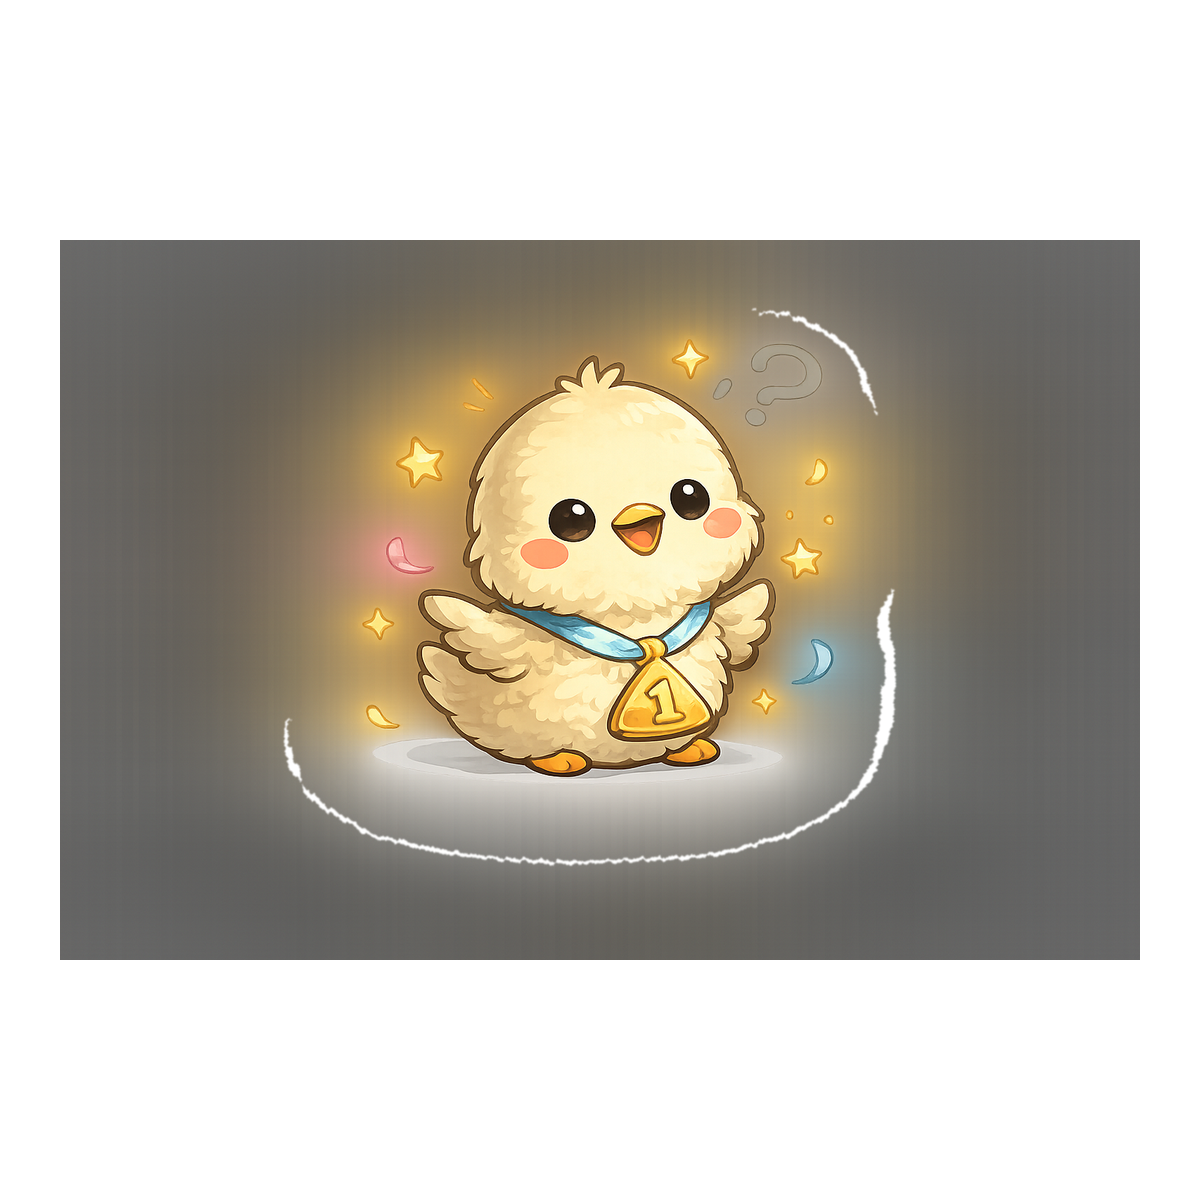
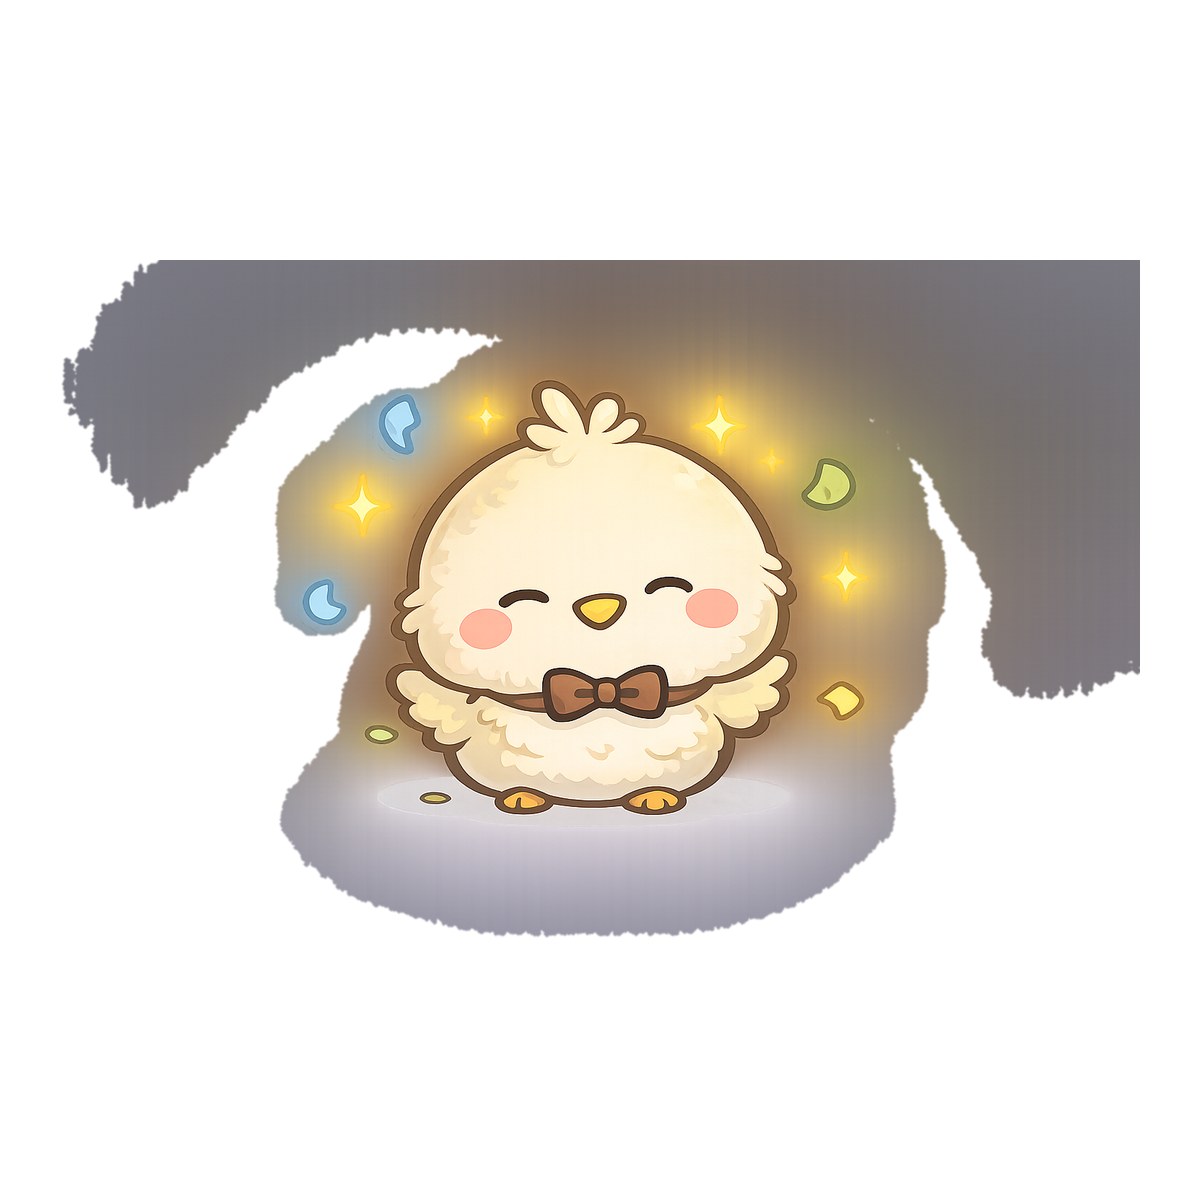
share: лейаут с Caveat-именем под картинкой + голубь→королёк + фикс async в галерее

diff --git a/challenge/share-utils.js b/challenge/share-utils.js
@@ -21,27 +21,36 @@ window.ShareUtils = (function(){
   }
 
   /* ====== Персональные птицы для share-картинок ======
-     На каждый уровень — массив объектов {file, title, phrase}.
+     На каждый уровень — массив объектов {file, name, phrase}.
      Уровень («low»/«mid»/«high») вычисляется в day-файле по результату теста,
-     внутри уровня выбирается случайный персонаж. */
+     внутри уровня выбирается случайный персонаж.
+     Префикс «сегодня ты —» отрисовывается отдельно в buildShareCanvas. */
   const _CHARS = {
     low: [
-      { file: 'levels/low-zhuk.png',       title: 'Сегодня ты — Жук-невывожук',        phrase: 'Сегодня ты сделала, что смогла. Чмок тебя в нос.' },
-      { file: 'levels/low-elezhevika.png', title: 'Сегодня ты — Ележевика',             phrase: 'Еле-еле, но ягодка.' },
-      { file: 'levels/low-myata.png',      title: 'Сегодня ты — Мята, немного помята',  phrase: 'Не сломалась, а примялась.' },
+      { file: 'levels/low-zhuk.png',       name: 'Жук-невывожук',          phrase: 'Сегодня ты сделала, что смогла. Чмок тебя в нос.' },
+      { file: 'levels/low-elezhevika.png', name: 'Ележевика',              phrase: 'Еле-еле, но ягодка.' },
+      { file: 'levels/low-myata.png',      name: 'Мята, немного помята',   phrase: 'Не сломалась, а примялась.' },
     ],
     mid: [
-      { file: 'levels/mid-utka.png',    title: 'Сегодня ты — достаточно умелая утка-Незабудка', phrase: 'Летишь не идеально, но вполне уверенно.' },
-      { file: 'levels/mid-golub.png',   title: 'Сегодня ты — Голубь-стратег',           phrase: 'Иногда путаешься, но в целом находишь дорогу к хлебушку.' },
-      { file: 'levels/mid-ptenets.png', title: 'Сегодня ты — Птенец-молодец',           phrase: 'Справилась не без приключений, но справилась.' },
+      { file: 'levels/mid-utka.png',    name: 'Утка-Незабудка',  phrase: 'Летишь не идеально, но вполне уверенно.' },
+      { file: 'levels/mid-korolek.png', name: 'Королёк-нормалёк', phrase: 'Иногда путаешься, но в целом находишь дорогу к хлебушку.' },
+      { file: 'levels/mid-ptenets.png', name: 'Птенец-молодец',  phrase: 'Справилась не без приключений, но справилась.' },
     ],
     high: [
-      { file: 'levels/high-gus.png',    title: 'Сегодня ты — Гусь-всемогусь',           phrase: 'Тебе сегодня всё по плечу.' },
+      { file: 'levels/high-gus.png',   name: 'Гусь-всемогусь', phrase: 'Тебе сегодня всё по плечу.' },
       // позже добавятся:
-      // { file: 'levels/high-rock.png', title: 'Сегодня ты — Гусь-за-попу-кусь', phrase: 'Быстро, цепко, уверенно.' },
-      // { file: 'levels/high-zhar.png', title: 'Сегодня ты — Жар-птица',         phrase: 'Ты огонь, детка.' },
+      // { file: 'levels/high-rock.png', name: 'Гусь-за-попу-кусь', phrase: 'Быстро, цепко, уверенно.' },
+      // { file: 'levels/high-zhar.png', name: 'Жар-птица',         phrase: 'Ты огонь, детка.' },
     ],
   };
+
+  // Подключаем Caveat (рукописный шрифт для весёлых имён персонажей)
+  if (!document.querySelector('link[href*="Caveat"]')) {
+    const _caveatLink = document.createElement('link');
+    _caveatLink.rel = 'stylesheet';
+    _caveatLink.href = 'https://fonts.googleapis.com/css2?family=Caveat:wght@600;700&display=swap';
+    document.head.appendChild(_caveatLink);
+  }
 
   // Прелоадим все доступные PNG персонажей (URL вычисляем от share-utils.js)
   const _charImages = {};
@@ -272,8 +281,13 @@ window.ShareUtils = (function(){
   }
 
   /* Главная функция: рисует единый «бинго-постер» для дня.
-     async — потому что ждёт прелоад PNG персонажа (если level передан). */
+     async — потому что ждёт прелоад PNG персонажа (если level передан)
+     и загрузку шрифта Caveat (если ещё не приехал). */
   async function buildShareCanvas({ dayLabel, title, subtitle, stats, userName, level }){
+    // Гарантируем, что Caveat и прочие веб-шрифты успели загрузиться
+    if (document.fonts && document.fonts.ready) {
+      try { await document.fonts.ready; } catch(e){}
+    }
     const W = 1080, H = 1920;
     const canvas = document.createElement('canvas');
     canvas.width = W; canvas.height = H;
@@ -301,53 +315,58 @@ window.ShareUtils = (function(){
       await (_charReady[char.file] || Promise.resolve());
       const charImg = _charImages[char.file];
 
-      // dayLabel сверху
+      // dayLabel
       ctx.fillStyle = '#5E6B4A';
       ctx.font = '700 26px "Manrope", sans-serif';
       ctx.textAlign = 'center';
       ctx.fillText(`• ${dayLabel.toUpperCase()}`, W/2, 250);
 
-      // ТИТУЛ — над персонажем
-      drawFitText(ctx, char.title, W/2, 340, W - 100,
-        'italic 600 50px "Fraunces", "Georgia", serif', '#D9694A', 'center');
+      // "Сегодня ты —" (мелкий префикс над картинкой)
+      ctx.fillStyle = '#5A5042';
+      ctx.font = '500 28px "Manrope", sans-serif';
+      ctx.fillText('сегодня ты —', W/2, 320);
 
-      // ПЕРСОНАЖ — большой, центр
+      // ПЕРСОНАЖ
       if (charImg && charImg.naturalWidth > 0) {
         const SIZE = 360;
-        ctx.drawImage(charImg, (W - SIZE)/2, 380, SIZE, SIZE);
+        ctx.drawImage(charImg, (W - SIZE)/2, 350, SIZE, SIZE);
       }
 
-      // ФРАЗА под персонажем (с word-wrap)
+      // ИМЯ персонажа — крупным Caveat (весёлый рукописный)
+      drawFitText(ctx, char.name, W/2, 780, W - 100,
+        '700 80px "Caveat", cursive', '#D9694A', 'center');
+
+      // ФРАЗА (с word-wrap)
       ctx.font = 'italic 500 28px "Fraunces", "Georgia", serif';
       ctx.fillStyle = '#5A5042';
       ctx.textAlign = 'center';
       const phraseLines = wrap(ctx, char.phrase, W - 160);
-      let py = 790;
+      let py = 850;
       for (const line of phraseLines) {
         ctx.fillText(line, W/2, py);
         py += 36;
       }
 
-      // основной title теста (мелким, не дублирует титул)
-      drawFitText(ctx, title, W/2, 900, W - 120,
-        '600 38px "Fraunces", "Georgia", serif', '#2A2620', 'center');
+      // title теста (мелким — не дублирует имя)
+      drawFitText(ctx, title, W/2, py + 40, W - 120,
+        '600 36px "Fraunces", "Georgia", serif', '#2A2620', 'center');
 
-      // stats card — сдвинута вниз
+      // stats — переместить с учётом высоты phrase
+      const cardY = py + 100;
+      const cardH = 540;
       if (stats && stats.length > 0) {
-        const cardY = 950, cardH = 600;
         ctx.fillStyle = '#FBF7EE';
         roundRect(ctx, 80, cardY, W - 160, cardH, 40); ctx.fill();
         ctx.strokeStyle = '#E6DECE'; ctx.lineWidth = 3;
         roundRect(ctx, 80, cardY, W - 160, cardH, 40); ctx.stroke();
-
         const cellW = (W - 160) / 2;
         const cellH = cardH / 2;
         const valueMaxW = cellW - 40;
         stats.forEach((s, i) => {
           const cx = 80 + cellW * (i % 2) + cellW/2;
           const cy = cardY + cellH * Math.floor(i / 2) + cellH/2;
-          drawFitText(ctx, String(s.v ?? '—'), cx, cy + 10, valueMaxW,
-            '600 96px "Fraunces", "Georgia", serif', '#D9694A', 'center');
+          drawFitText(ctx, String(s.v ?? '—'), cx, cy + 14, valueMaxW,
+            '600 90px "Fraunces", "Georgia", serif', '#D9694A', 'center');
           const labelMaxW = cellW - 30;
           drawFitText(ctx, (s.l || '').toUpperCase(), cx, cy + 76, labelMaxW,
             '700 22px "Manrope", sans-serif', '#8C8A77', 'center');

diff --git a/share-gallery.html b/share-gallery.html
@@ -86,7 +86,7 @@
 
 </div>
 
-<script src="challenge/share-utils.js?v=1"></script>
+<script src="challenge/share-utils.js?v=7"></script>
 <script>
 /* ============================================================
    Локальные копии рендереров из daily-card.html и
@@ -295,6 +295,7 @@ const challengeShares = [
         { v: '0', l: 'фальстарты' },
       ],
       userName: 'Аня',
+      level: 'mid',
     },
     filename: 'share-day1-pvt.png',
   },
@@ -314,6 +315,7 @@ const challengeShares = [
         { v: '3', l: 'пропустила «жми»' },
       ],
       userName: 'Аня',
+      level: 'high',
     },
     filename: 'share-day2-gng.png',
   },
@@ -333,6 +335,7 @@ const challengeShares = [
         { v: '—', l: '' },
       ],
       userName: 'Аня',
+      level: 'mid',
     },
     filename: 'share-day4-nback.png',
   },
@@ -352,6 +355,7 @@ const challengeShares = [
         { v: '—', l: '' },
       ],
       userName: 'Аня',
+      level: 'mid',
     },
     filename: 'share-day5-wcst.png',
   },
@@ -371,6 +375,7 @@ const challengeShares = [
         { v: '460', l: 'RT помехи' },
       ],
       userName: 'Аня',
+      level: 'high',
     },
     filename: 'share-day6-flanker.png',
   },
@@ -455,7 +460,7 @@ function showError(card, msg){
       if (!window.ShareUtils || typeof window.ShareUtils.buildShareCanvas !== 'function'){
         throw new Error('ShareUtils не загрузился');
       }
-      const canvas = window.ShareUtils.buildShareCanvas(item.args);
+      const canvas = await window.ShareUtils.buildShareCanvas(item.args);
       attachCanvasToCard(card, canvas, item.filename);
     } catch (e){
       showError(card, e.message || String(e));

diff --git a/challenge/day1/index.html b/challenge/day1/index.html
@@ -176,7 +176,7 @@
 </main>
 
 <script src="../challenge.js?v=3"></script>
-<script src="../share-utils.js?v=6"></script>
+<script src="../share-utils.js?v=7"></script>
 <script>
 /* ============================================================
    PVT — Psychomotor Vigilance Test

diff --git a/challenge/day2/index.html b/challenge/day2/index.html
@@ -186,7 +186,7 @@
 </main>
 
 <script src="../challenge.js?v=3"></script>
-<script src="../share-utils.js?v=6"></script>
+<script src="../share-utils.js?v=7"></script>
 <script>
 /* ============================================================
    Go / No-Go — реакция на Go (зелёные) и торможение на No-Go (красные)

diff --git a/challenge/day4/index.html b/challenge/day4/index.html
@@ -190,7 +190,7 @@
 </main>
 
 <script src="../challenge.js?v=3"></script>
-<script src="../share-utils.js?v=6"></script>
+<script src="../share-utils.js?v=7"></script>
 <script>
 /* ============================================================
    N-back — рабочая память, ДВА БЛОКА

diff --git a/challenge/day5/index.html b/challenge/day5/index.html
@@ -175,7 +175,7 @@
 </main>
 
 <script src="../challenge.js?v=3"></script>
-<script src="../share-utils.js?v=6"></script>
+<script src="../share-utils.js?v=7"></script>
 <script>
 Challenge.requireRegistration();
 

diff --git a/challenge/day6/index.html b/challenge/day6/index.html
@@ -218,7 +218,7 @@
 </main>
 
 <script src="../challenge.js?v=3"></script>
-<script src="../share-utils.js?v=6"></script>
+<script src="../share-utils.js?v=7"></script>
 <script>
 /* ============================================================
    Wisconsin Card Sorting Test (упрощённый)

diff --git a/challenge/day7/index.html b/challenge/day7/index.html
@@ -195,7 +195,7 @@
 </main>
 
 <script src="../challenge.js?v=3"></script>
-<script src="../share-utils.js?v=6"></script>
+<script src="../share-utils.js?v=7"></script>
 <script>
 /* ============================================================
    Flanker — фильтр внимания